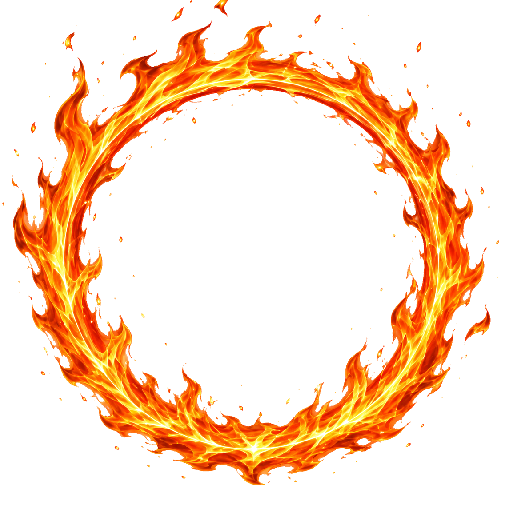
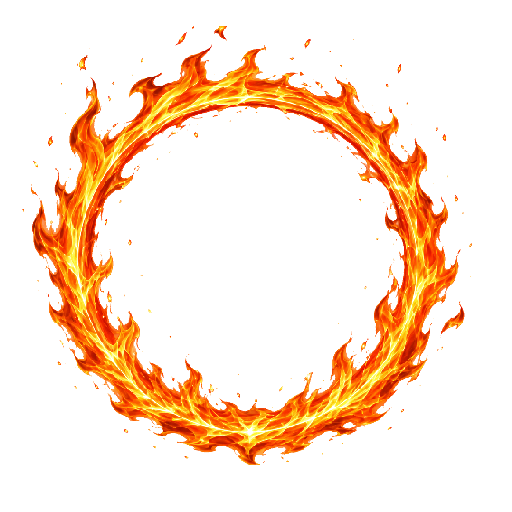
Ring liegt AUSSEN ums volle Profilbild (Bild NICHT verkleinert): PNGs neu normalisiert auf Loch 56% einheitlich zentriert + Ring 185% gross → Band sitzt ausserhalb des Fotos, umschliesst es; SW v293

diff --git a/bot.js b/bot.js
@@ -3156,7 +3156,9 @@ ${session ? `
 .ipf-avatar-wrap.has-ring{overflow:visible}
 .ipf-avatar-wrap.has-ring .ipf-avatar{border-color:transparent!important;box-shadow:none!important}
 /* PNG-Ring: normalisierte Bilder (Loch 60% zentriert) → 167% zentriert übers volle Foto, Loch deckt es exakt */
-.cb-ring-png{position:absolute;left:50%;top:50%;transform:translate(-50%,-50%);width:167%;height:167%;object-fit:contain;pointer-events:none;z-index:6}
+/* PNG-Ring liegt AUSSEN ums volle Profilbild (Bild wird NICHT verkleinert). PNGs normalisiert auf Loch 56%
+   → bei 178% Größe ist das Loch = 100% des Fotos, das Ring-Band sitzt außerhalb. Gilt für ALLE Ringe gleich. */
+.cb-ring-png{position:absolute;left:50%;top:50%;transform:translate(-50%,-50%);width:185%;height:185%;object-fit:contain;pointer-events:none;z-index:6}
 </style>
 <div class="tour-overlay" id="tour-ov" aria-hidden="true">
   <div class="tour-spotlight" id="tour-spotlight"></div>
@@ -5453,7 +5455,7 @@ async function run(){var b=document.getElementById('b'),o=document.getElementByI
     if (path === '/sw.js') {
         res.writeHead(200, {'Content-Type':'application/javascript','Service-Worker-Allowed':'/','Cache-Control':'no-cache'});
         return res.end(`
-const SW_VERSION='v291-png-back';
+const SW_VERSION='v293-ring-fit';
 const STATIC_CACHE='cb-static-' + SW_VERSION;
 const IMAGE_CACHE='cb-images-' + SW_VERSION;
 self.addEventListener('install',()=>self.skipWaiting());
